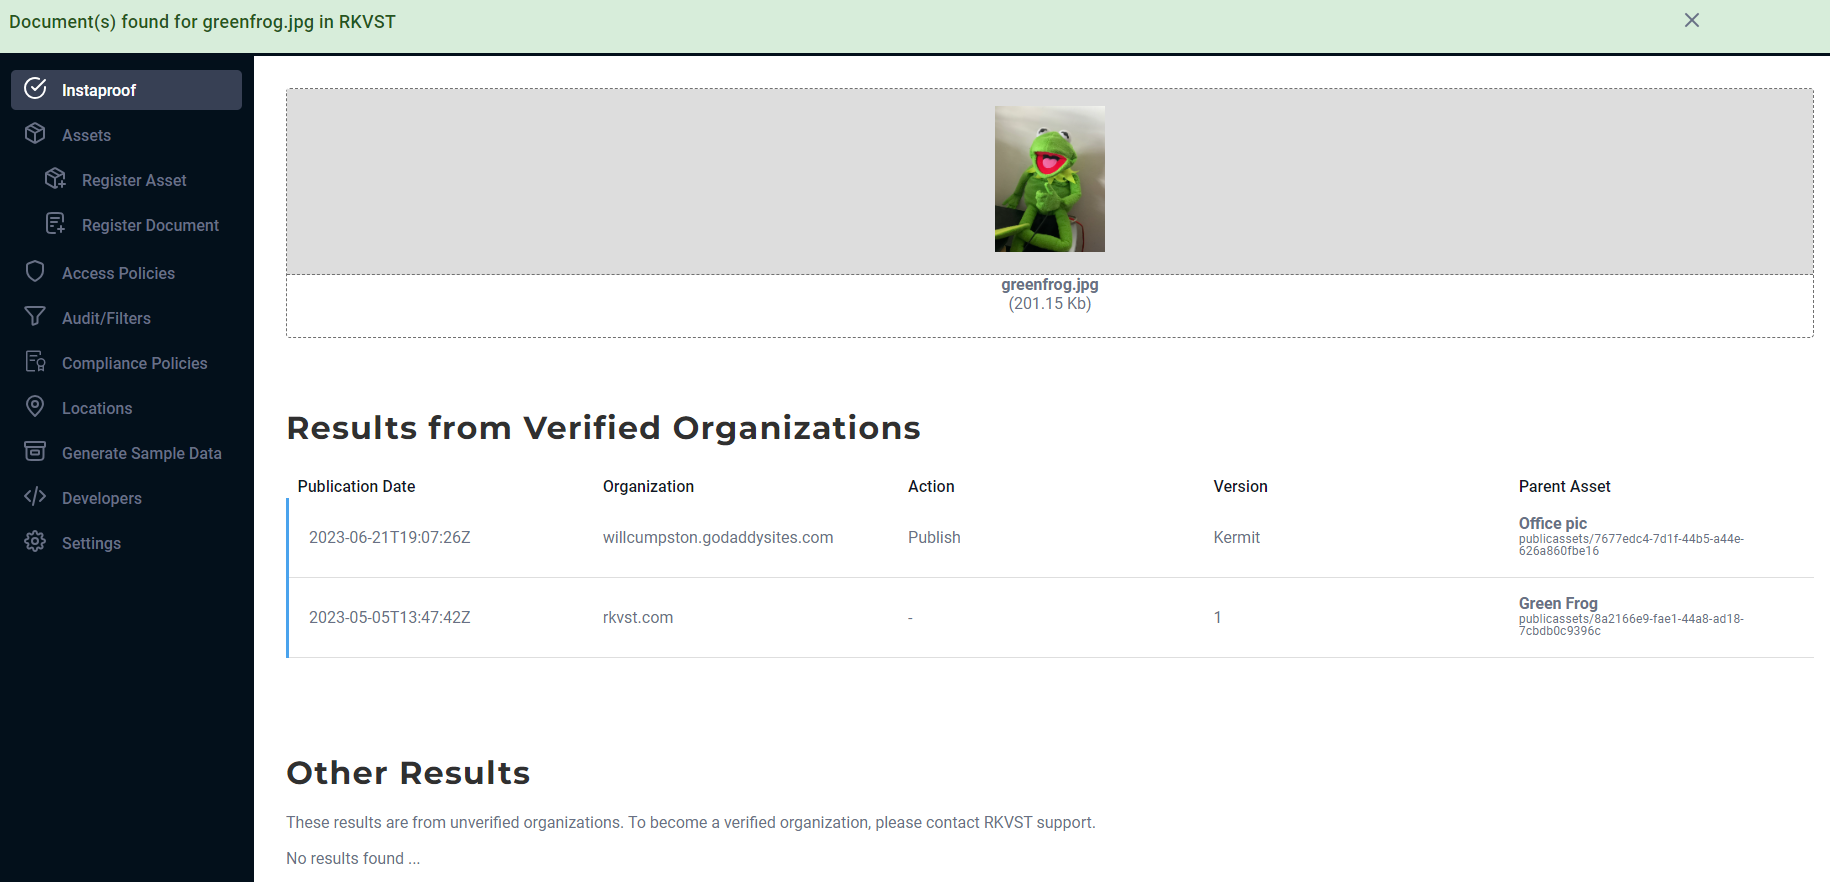
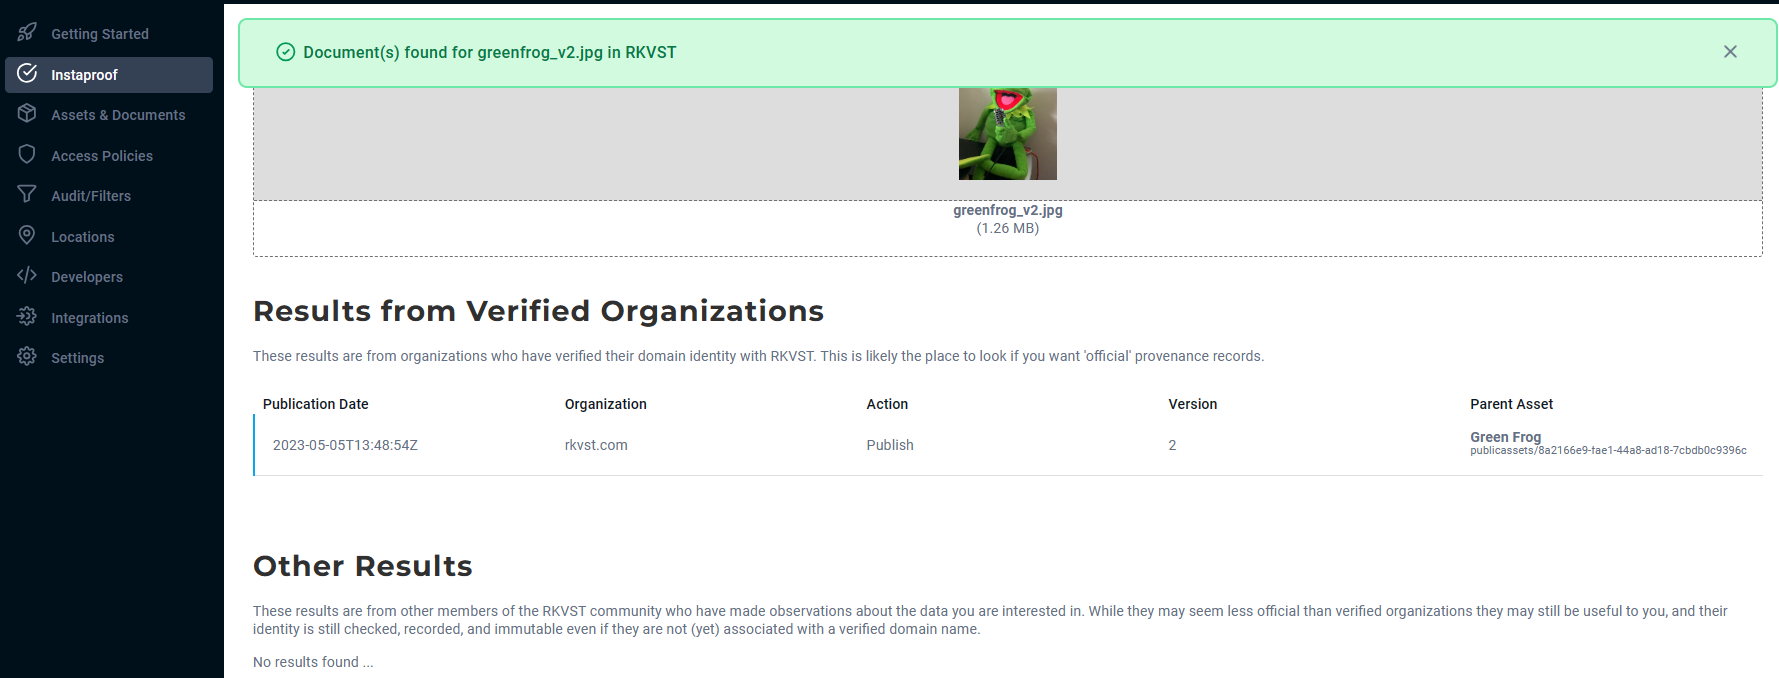
Updated screenshots and document rewrite to match the current UI (#701)
* Updated screenshopts and document rewrite to match the current UI

* Update content/platform/overview/instaproof/index.md

* Update content/platform/overview/instaproof/index.md

* Update content/platform/overview/instaproof/index.md

* Update content/platform/overview/instaproof/index.md

* Update content/platform/overview/instaproof/index.md

* Update content/platform/overview/instaproof/index.md

---------

diff --git a/content/platform/overview/instaproof/index.md b/content/platform/overview/instaproof/index.md
@@ -37,7 +37,7 @@ If the document that you are verifying has not been found, you will see a red re
 {{< note >}}
 **Note:** In this screenshot we are using the file `greenfrog.jpg` which can be downloaded from our [Instaproof Samples](https://github.com/rkvst/instaproof-samples/tree/main/media) page.
 {{< /note >}}
-If the document has been registered with RKVST, you will see a green response banner together with a list of all the matching Document Profile Assets. This means that the version of the document that you have has a verifiable provenance record.
+If the document has been registered with RKVST, you will see a green response banner together with a list of all the matching Document Profile Assets. This means that the version of the document that you have has a verifiable provenance record and an immutable audit trail.
 {{< img src="InstaproofFound.png" alt="Rectangle" caption="<em>Document Found</em>" class="border-0" >}}
 At the top you can see the document that was checked and found on Instaproof. Don't worry! It's all kept locally - we don't need to peek inside your documents to find their provenance.  
 
@@ -51,39 +51,26 @@ At the top you can see the document that was checked and found on Instaproof. Do
 
     While they may seem less 'official' than verified account results, they may still be useful to you. The identity of all users making attestations in RKVST is checked, recorded, and immutable, even if they are not (yet) associated with a verified domain name.
 
-### What do the Instaproof results mean?
+### What Do the Instaproof Results Mean
 
-#### Provenance Record
+#### Immutable Audit Trail
 
-Click on a result to see details of the provenance record.
+Click on a result to see details of the document history. You will see the Event details of the version that matches your document on the right with a partial view of the Asset details for the latest version on the left. Close the Event details to see the full Asset details view.
 
-{{< img src="InstaproofResults.png" alt="Rectangle" caption="<em>Document Results Tab</em>" class="border-0" >}}
+{{< img src="InstaproofResults.png" alt="Rectangle" caption="<em>Asset Details Tab</em>" class="border-0" >}}
 
-The **Document** tab shows the asset and event attributes that relate to the document profile.
+The **Asset details** tab shows the information about the asset attributes.
+Includes the current version, the organization, and Verified Domain badge, if applicable. 
 
-**Public** - If this is green then the document is publicly accessible using the public URL. Otherwise it is private and requires shared access to be enabled for a user to be able to view it.
+**Public attestation and visibility** - *Public* means that the document is publicly accessible using the public URL. *Permissioned* means that it is private and requires shared access to be enabled for a user to be able to view it.
 
-**Tick** - The anchor status of the document on the blockchain. A blue tick means that is has been anchored.
+**Type** - For Document Profile Assets this will always be 'Document'.
 
-**Details** - The current version, the parent asset link (to the original version), the organization and Verified Domain badge, if applicable.
+**Description** - an optional description of the Asset
 
-**Compare Local Copy** - Drag a copy here if you have a local copy of the document and you don't know which version it is. You do this by clicking on a version in the **Browse Events** section and then dragging a file to find if it matches this version.
-{{< img src="InstaproofLocalCopy.png" alt="Rectangle" caption="<em>Comparing a Local Copy</em>" class="border-0" >}}
+**Attributes** - This drop down section contains any custom attributes that were added to the asset.
 
-The **More Details** tab shows the asset details and attributes that are common to all RKVST assets.
-
-{{< img src="InstaproofResultsDetails.png" alt="Rectangle" caption="<em>More Details Results Tab</em>" class="border-0" >}}
-
-**Type** - The type of event. For Document Profile Events this will always be 'Publish'.
-
-**Description** - An optional description of the event.
-
-**Event ID** -  The Event ID will always be of the format 'publicassets/<asset_id>/events/<event_id>' for public assets or 'assets/<asset_id>/events/<event_id>' for private assets.
-
-**Attributes** - This section contains any custom attributes that were included added when the asset was created or when the current event was added to the asset.
-
-**Transaction** - This link contains the details of the blockchain transaction.
-{{< img src="InstaproofTransaction.png" alt="Rectangle" caption="<em>Transaction Details</em>" class="border-0" >}}
+**Versions** - the published versions of the document
 
 {{< note >}}
 **Note:**
@@ -91,3 +78,26 @@ The share button allows you to access and copy the private and public (if enable
 {{< /note >}}
 
 {{< img src="InstaproofShare.png" alt="Rectangle" caption="<em>Share Links</em>" class="border-0" >}}
+
+The **Event History** tab shows the full history of Events including custom Events, new Versions and Withdraw Events.
+
+Click on the tab and select an Event to view the details.
+
+{{< img src="InstaproofResultsDetails.png" alt="Rectangle" caption="<em>Event History Overview Tab</em>" class="border-0" >}}
+
+The **Overview** information about the Event
+
+**Event Identity** -  The Event ID will always be of the format 'publicassets/<asset_id>/events/<event_id>' for public assets or 'assets/<asset_id>/events/<event_id>' for private assets.
+
+**Asset Identity** - the ID of the parent Asset for this Event.
+
+**Transaction** - This link contains the details of the blockchain transaction.
+{{< img src="InstaproofTransaction.png" alt="Rectangle" caption="<em>Transaction Details</em>" class="border-0" >}}
+
+**Type** - For Document Profile Events this will always be 'Publish'
+
+**Document changes** - The version and document hash for new version Events. There is no data here for custom Events. 
+
+The **Event attributes** and **Asset attributes** tabs contain information about any custom attributes that were added or modified as part this Event. 
+
+
